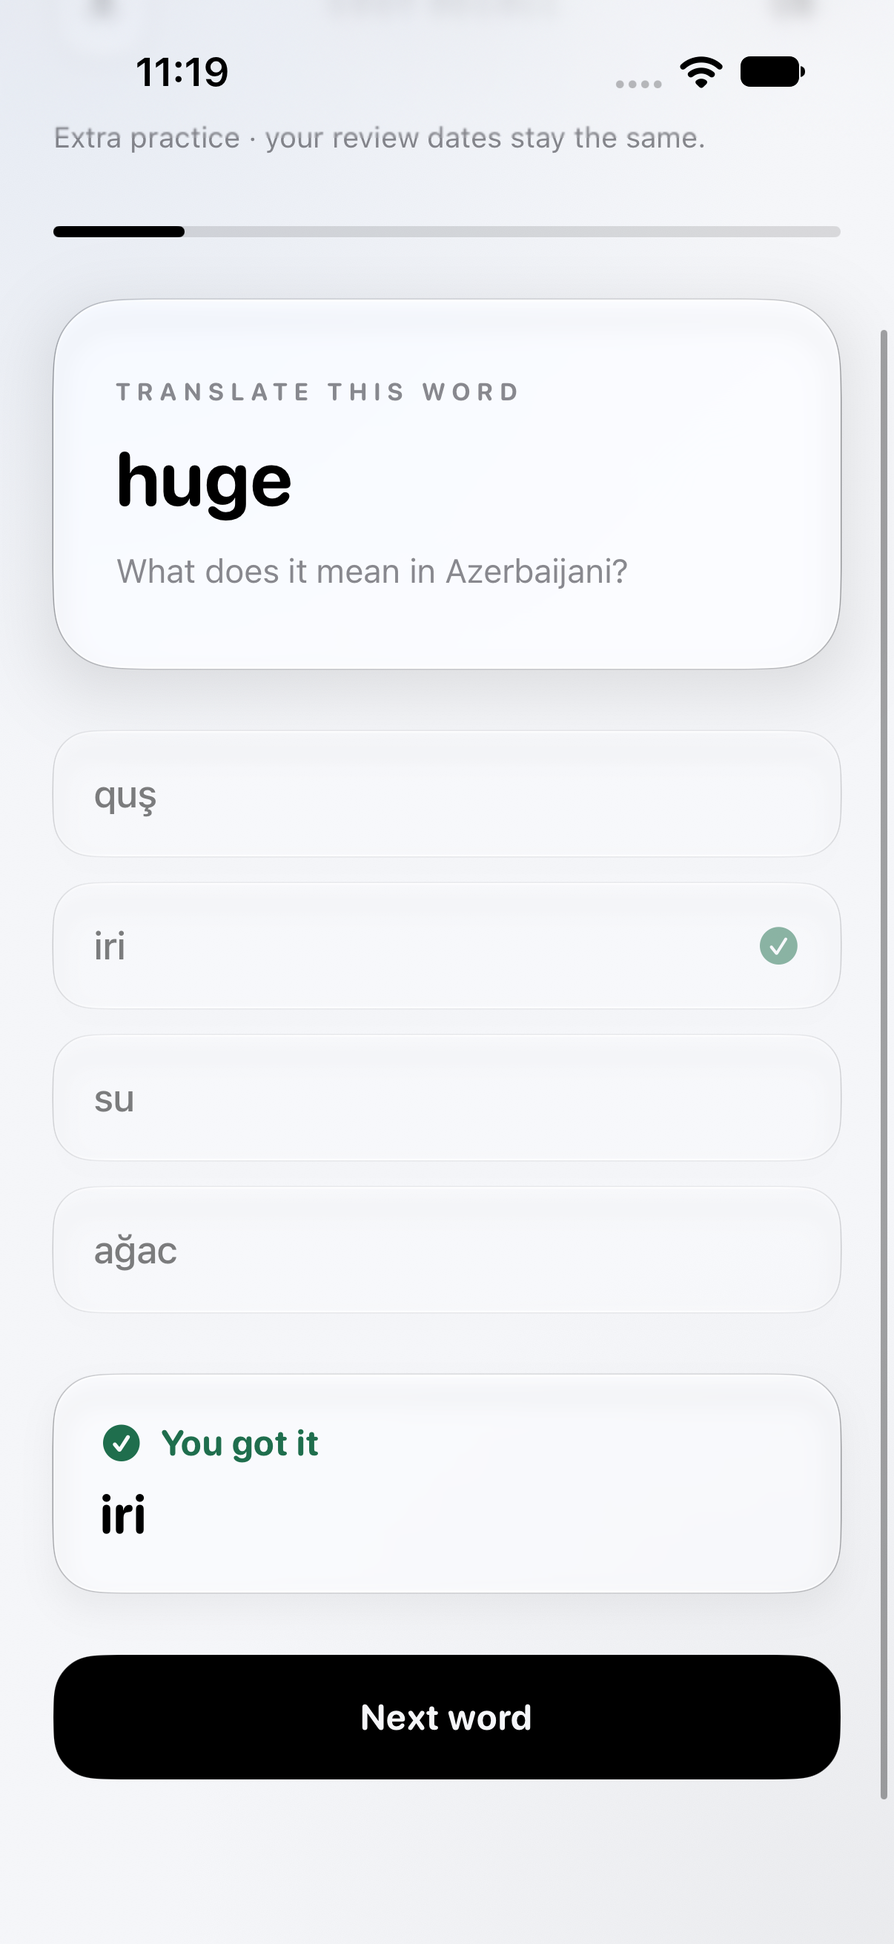
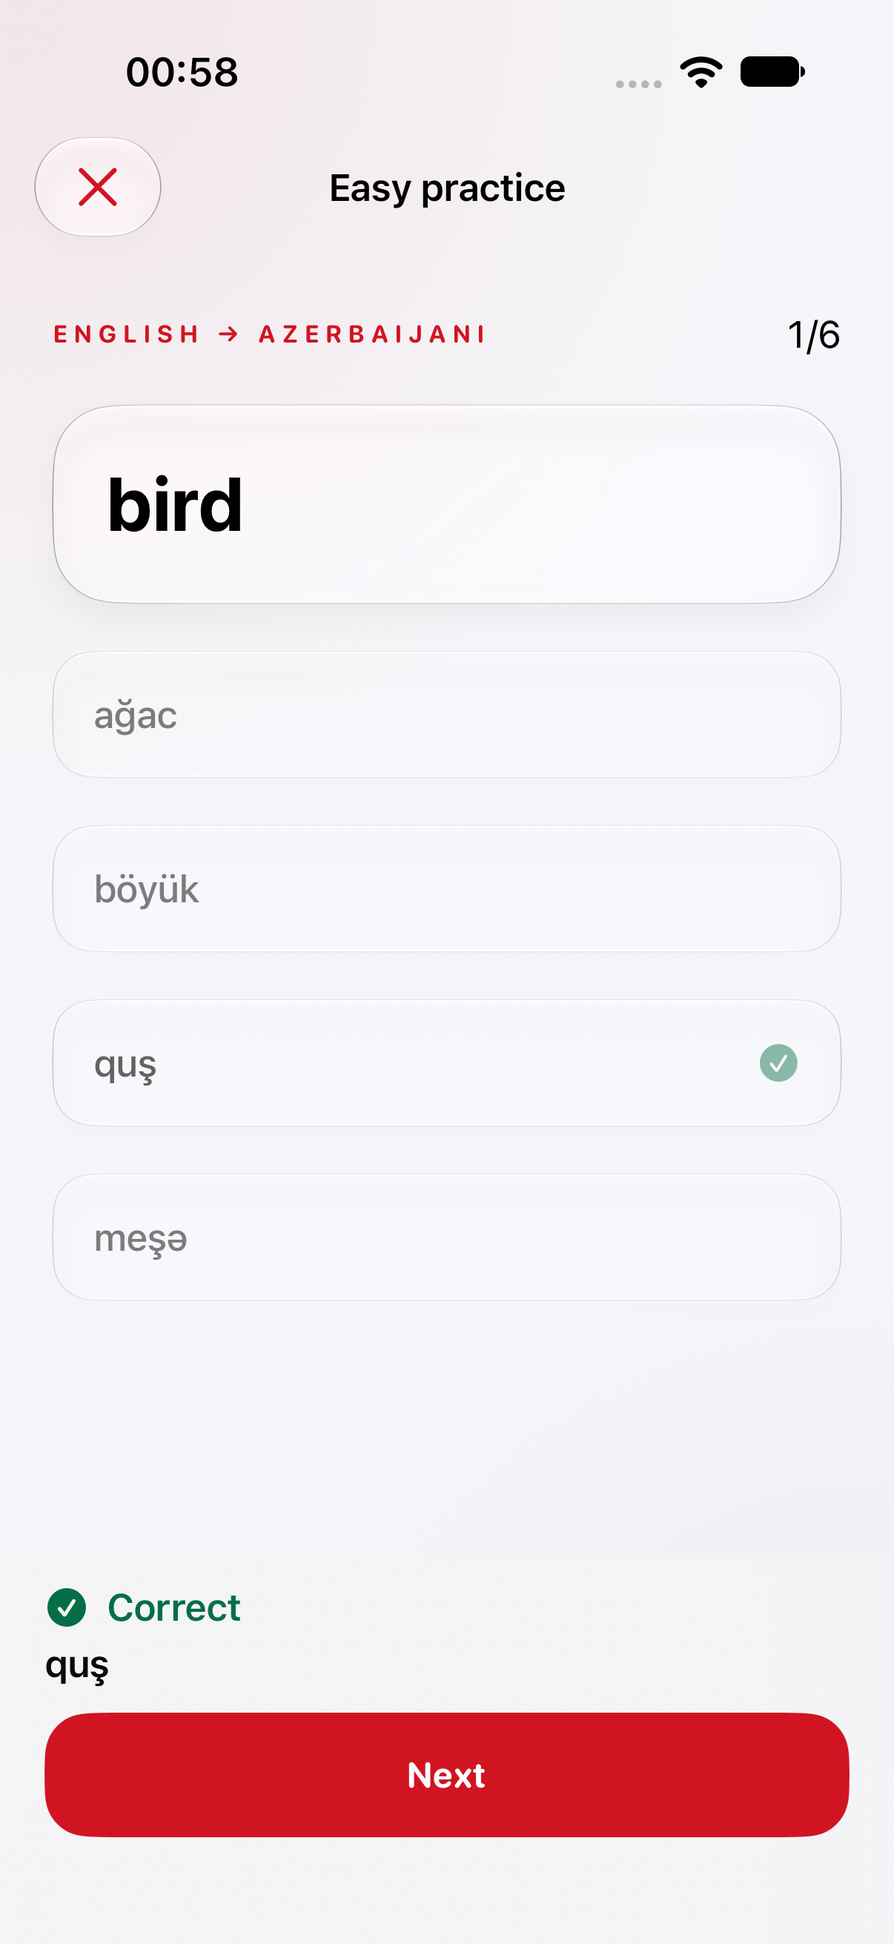
Document WordRevisit 1.3 and refresh three screenshots

diff --git a/WordRevisit/README.md b/WordRevisit/README.md
@@ -1,141 +1,137 @@
 # WordRevisit
 
-A native, offline iPhone app for learning English with Azerbaijani translations. **Version 2.1.0**, iOS **18+**, SwiftUI. Vocabulary and learning history stay on your iPhone. The first installation includes a 59-word starter collection.
+An offline English–Azerbaijani vocabulary app for iPhone and iPad. **Version 1.3.0 · iOS 18+ · SwiftUI.** Add words, practise in shuffled groups, and give every word a turn.
 
 ## Screenshots
 
-Screenshots from an iOS 27 simulator using sample data. The interface follows your iPhone’s appearance, or you can choose Light or Dark in Settings. It uses Liquid Glass on iOS 26+ and native materials on iOS 18–25.
+Screenshots use sample vocabulary in the simulator. The black, white and red interface supports System, Light and Dark appearance, with emerald feedback for correct answers and cherry red for incorrect answers.
 
-| Today's plan | Recall and feedback | Progress |
+| Practice | Answers | Synonyms |
 |:---:|:---:|:---:|
-| ![Daily learning plan](docs/screenshots/today.png) | ![Multiple-choice practice feedback](docs/screenshots/study.png) | ![Learning statistics](docs/screenshots/progress.png) |
+| ![Current practice cycle](docs/screenshots/today.png) | ![Practice answer feedback](docs/screenshots/study.png) | ![Vocabulary grouped by synonym family](docs/screenshots/synonyms.png) |
 
 ## Start here
 
-1. Open **My words** to add or edit words. Each word can have a definition, examples, part of speech, synonym group, memory hook, and your own sentence.
-2. Use **Import CSV** or **Manage words → Paste words**, review the counts, and confirm the import.
-3. Tap **Start today's plan**. Meet new words, recall them after short gaps, then complete their mini-test. Close at any point and use **Continue saved session** later.
-4. Use **Progress** to review saved answers and difficult words.
-5. Export a full JSON backup from **Settings → Backup & restore** before removing the app or changing its bundle identifier.
+1. Open **My words** to add, edit, delete or import vocabulary.
+2. Choose **Easy** or **Hard** on **Practice**, then tap **Start practice**.
+3. Answer and tap **Next** in the fixed bottom panel. In Hard mode, **Check answer** stays above the keyboard.
+4. Finish a group, then continue with **Next group** or return home. There is no daily limit.
+5. Find completed groups and their answers in **Settings → Practice history**.
 
-## Daily learning
+## Every word gets a turn
 
-- The default target is **20 new words**, in **two batches of 10**, alongside due reviews. Choose one, two, or four batches.
-- New words follow collection/import order. Words sharing a synonym group or an Azerbaijani meaning are introduced on different study days.
-- Due reviews prioritise the oldest due date and then the lowest stage. Equal-priority cards are shuffled. Free quizzes also shuffle equal-priority words.
-- At the start of a study day, over 100 due reviews halves the new-word allowance; over 150 pauses it. Paused intake resumes below 100. The daily review limit is 200 distinct words; extra reviews remain due.
-- After at least two missed days, the comeback day has no new words and at most 40 reviews.
-- A study day starts at **04:00 local time**.
-- The daily minimum is **15 distinct words practised**, or the entire available queue when smaller. Mistakes count as practice; repeating one word does not inflate the minimum. Completing all scheduled words finishes the full plan.
-- Each seven consecutive completed study days earns a streak freeze, with up to two saved. A freeze covers a missed day automatically; the best streak remains recorded.
-- The plan's daily limits are fixed for that study day. Changes to those limits apply to the next day; adding or deleting vocabulary updates the remaining available work.
+A cycle starts with all vocabulary in a shared pool. Each group draws up to **20 random words**, without replacement. A remainder of fewer than 20 words forms its own shorter group; it is not padded with repeats.
 
-### New words and review stages
+Missed words return once at the end of their group. The retry finishes each word for that cycle, whether the second answer is right or wrong. Once the last group and its retries are finished, **Cycle complete** appears. Starting again creates a newly shuffled cycle.
 
-An introduction shows the word, translations, definition and examples. Add an optional memory hook, learn the word, mark it already known, or leave it for tomorrow. Already-known words enter stage 5. Learning steps default to **1 minute**, then **10 minutes**, followed by a mini-test. A waiting session is saved and can be closed; reminders can announce its next ready card.
+Easy and Hard share the same pool. Change mode between groups; an unfinished group keeps its original mode. Newly added words join the current pool. Deleted words leave both the pool and any unfinished group. Previously completed history remains available.
 
-| Stage | Review interval |
-|---|---|
-| 1–3 | 1, 2, 4 days |
-| 4–6 | 8, 16, 30 days |
-| 7–9 | 60, 120, 180 days |
+The pool, current question, draft answer, submitted feedback and retry state are saved locally. Close and reopen the app to continue where you left off. Questions in an active group retain the wording they had when the group started; vocabulary edits apply to future groups.
 
-Correct, unassisted, timely recall advances a stage. A correct answer with a hint, a single spelling error in a word of at least five letters, or a longer response is **Hard** and keeps the stage. Default response thresholds are 5 seconds for choices and 12 seconds for typing; these are adjustable.
+### Easy
 
-A wrong answer or **I don't know** drops two stages, with a minimum of stage 1. It returns after 3–5 other cards where enough cards are available, needs two correct recovery answers, and is then due tomorrow. Longer intervals receive a configurable ±10% spread. Very overdue words receive an easier question tier.
+Answer with up to four choices. Each group mixes English → Azerbaijani and Azerbaijani → English questions equally, in random order. For odd-sized groups, one direction has one extra question.
 
-After four mistakes a word is labelled difficult and the feedback offers a memory hook. At most 15 difficult words stay active; excess words pause for seven days. You can also pause or resume any word manually.
+Distractors come from the vocabulary and exclude words sharing any accepted Azerbaijani meaning with the target. If only two or three distinct choices are available, the question uses those choices. If there is only one distinct answer, that word uses written Azerbaijani → English recall so it is still covered by the cycle.
 
-### Questions and synonyms
+### Hard
 
-Early stages use English/Azerbaijani choices; later stages add definitions, cloze sentences, and written recall. Definitions and cloze questions are only used when the necessary content exists. Cloze blanks whole-word occurrences in your example sentence. If four unambiguous options cannot be built, the question uses written recall instead. Distractors exclude words with shared meanings or the same synonym group, and respect part of speech when supplied.
+See the Azerbaijani meaning and write the English word. Matching ignores letter case and extra whitespace; spelling and diacritics must otherwise match exactly.
 
-Assign matching **Synonym group** names to related words. **Practise synonyms** becomes useful when at least two words in a group reach stage 3 and three distinct distractors are available. Select the matching synonym from the answer choices. Synonym practice leaves review dates and daily minimums unchanged.
+Another English word in the vocabulary with a shared Azerbaijani meaning is also accepted. Feedback shows both your valid alternative and the target word. Every answer shows its result and the vocabulary answer before you continue.
 
-Daily questions show examples through **Show sentence hint**, then show examples, definitions and memory hooks after answering. Your own sentence can be saved and shared from the editor.
+## Vocabulary and CSV
 
-**Easy recall** offers four answer choices in either direction: English → Azerbaijani or Azerbaijani → English. **Hard recall** asks you to write the English word from its Azerbaijani translation. Easy practice includes words with four distinct, unambiguous options; add more vocabulary if none are available. Example hints stay visible, results can be reviewed, and missed words can be retried. Free practice does not change daily review stages or dates. Its quiz history is kept separately; resumable sessions apply to the daily plan and synonym practice.
+Each word has three editable fields:
 
-## Manage words and import
+| Field | Required | Example |
+|---|---|---|
+| English | Yes | `large` |
+| Azerbaijani | Yes | `böyük; iri` |
+| Group | No | `size` |
 
-Use **Manage words → Select words**, tap individual rows, or choose **Select visible**, then confirm deletion. **Delete all words** is a separate confirmed action. Deleting words removes their schedules and pending cards, while retaining past answer history. Search includes English, Azerbaijani and group names; filters cover new, learning, review, difficult, paused and synonym entries.
+Use semicolons to separate accepted meanings. Select individual words, **Select visible**, or **Delete all words** from **Manage words** to delete entries after confirmation. Export CSV before deleting vocabulary you might want to keep.
 
-CSV is a UTF-8 plain-text table:
+### Import
+
+CSV files must be UTF-8 with a header containing **English** and **Azerbaijani**. **Group** is optional. Columns are located by header name, so their order may vary; all other columns are ignored.
 
 ```csv
-English,Azerbaijani,Definition,Examples,PartOfSpeech,Group,Mnemonic,MySentence
-large,böyük,Of considerable size.,A large forest.,adjective,size,,
-huge,iri; böyük,Extremely large.,A huge tree.,adjective,size,,
+English,Azerbaijani,Group
+large,böyük; iri,size
+huge,nəhəng; böyük,size
+forest,meşə,nature
 ```
 
-English and Azerbaijani are required. The remaining columns are optional, in the order shown. Old two-, three-, and four-column files still work; empty definitions, quoted commas, escaped quotes and multiline examples are supported. A semicolon separates accepted meanings.
+Import preview shows new words, skipped duplicates and invalid rows before confirmation. An existing English word is always skipped, even if its translation or group differs. The first occurrence within a file is kept; later duplicates are skipped. Duplicate checks ignore case and extra whitespace. An unfinished quoted field stops the import.
 
-The preview reports new entries, merged entries, skipped duplicates and invalid rows. Identical word/meaning pairs are skipped. For the same word with a different translation, choose **merge**, **keep separate**, or **skip**. Merging retains existing review progress. Invalid rows are reported and skipped after confirmation; an unfinished quoted field stops the preview.
+For quick entry, **Manage words → Paste words** accepts one `word - translation` pair per line.
 
-For quick paste, use one pair per line:
+### Export and starter words
 
-```text
-forest - meşə
-water - su
-```
+**Export CSV** writes exactly `English,Azerbaijani,Group`. CSV contains vocabulary only, not practice history or the unfinished group.
 
-CSV carries vocabulary and notes only. **JSON backup** also carries stages, dates, history, settings and the saved session. Restore validates the file before replacing data, asks for confirmation and keeps a local copy of the previous file. Files larger than 64 MB, unsupported schemas and malformed learning data are rejected. An optional backup reminder defaults to every seven days.
+A fresh installation includes **287 unique words** from [Data/Vocabulary.csv](Data/Vocabulary.csv). The supplied file contains 298 rows; its 11 duplicate English entries are skipped, keeping each first occurrence.
 
-## Notifications
+## Synonyms
 
-Daily reminders default to **09:00 and 20:30**. A 22:00 reminder is scheduled only when no study has started; the daily minimum cancels the remaining daily reminders. Quiet hours default to **23:00–07:00**. Tapping a study notification opens or resumes the session. The app refreshes a seven-day notification schedule on use. Notification delivery still follows the iPhone's permission and Focus settings.
+The **Synonyms** tab builds word-family blocks automatically from **Group**. The first word added to each group is its heading; the other words appear underneath with their translations. Words without a group are omitted. Search matches English, Azerbaijani or the group name and shows the whole matching block.
 
-Enable **Xcode renewal** in Settings for a reminder to reinstall through Xcode. Backup and renewal reminders remain active after you complete the daily minimum.
+The layout uses one column on narrow screens and two or three on wider screens. These are your own vocabulary families; the app does not generate or verify synonym relationships.
 
-## Updating
+## Settings and Xcode renewal
 
-Export a JSON backup, then install the update over your existing app using the same bundle identifier. Keep the installed app; deleting it removes its local data.
+Choose **System**, **Light** or **Dark**. The header logo follows that appearance. **Practice history** records first-attempt scores and the separate one-time retries; older 1.2 sessions retain the history detail originally saved.
 
-Version 2.1 reads existing 2.0 data and JSON backups, including words, review dates, history, settings and saved study sessions. It also supports the earlier 1.2 data format. The first upgrade keeps a local recovery copy of the previous data file. Older backups use System appearance by default; new backups include your chosen appearance. Backups created by 2.1 require 2.1 or a later compatible version to restore.
+Enable **Xcode renewal** for a local reminder six days after enabling it or tapping **I reinstalled from Xcode**. Tap that button after each successful reinstall. The reminder estimates when a free install may expire; it does not inspect the provisioning profile or renew the app. Delivery follows notification permission and the iPhone's Focus settings.
 
-### Appearance
+## Release and data compatibility
 
-Choose **System**, **Light** or **Dark** in **Settings → Appearance**. The home logo follows the selected theme. Blue marks actions and selections, green marks correct answers, and red marks mistakes and destructive actions. Feedback also uses text and icons.
+**1.3 replaces the 2.x workflow following issues with practice navigation and the expanded learning flow.** The 2.x daily plan, review stages, streaks, statistics, advanced word fields, dedicated synonym quiz, quiet hours and JSON backup interface are retired. System/Light/Dark, the adaptive logo, Xcode renewal and practice history remain.
+
+This version reads the original **1.2 local data format** and preserves its vocabulary and practice history. It keeps a local copy of the old file before converting it. Word definitions, examples and other removed fields are not part of the new vocabulary model.
+
+**2.0 and 2.1 data are not migrated.** Before switching from either version, use that version to export the vocabulary you need as CSV. You may also keep its full backup for use with that older version. Version 1.3 does not import JSON backups.
+
+If 1.3 finds a 2.x or unreadable file, it leaves the file untouched and displays a recovery screen. **Start with the new vocabulary** requires confirmation, preserves that old file separately on the device, and starts with the bundled vocabulary and empty practice history. You can then import CSV; existing English entries are skipped. To replace the bundled vocabulary entirely, delete it first through **My words**, then import your CSV.
+
+Keep the same bundle identifier when installing an update over an existing app. Deleting the app removes its local files, including any local recovery copies. Keep exported CSV outside the app before removing it. CSV does not preserve history or practice state.
 
 ## Run on an iPhone without the App Store
 
-Requirements: a Mac with Xcode 26 or later, an iPhone running iOS 18 or later, a cable, and a free Apple Account.
+Requirements: a Mac with Xcode 26 or later, an iPhone running iOS 18 or later, and an Apple Account.
 
 1. Open `WordRevisit.xcodeproj` in Xcode.
-2. In **Xcode → Settings → Accounts**, sign in with your Apple Account.
-3. Select the **WordRevisit** target. Under **Signing & Capabilities**, enable **Automatically manage signing**, choose your **Personal Team**, and change the bundle identifier if Xcode asks for a unique one.
-4. Connect and unlock your iPhone, select **Trust This Computer** if prompted, and enable **Settings → Privacy & Security → Developer Mode** on the phone if needed.
-5. Choose your named iPhone as the Xcode run destination (not **Any iOS Device**) and press **Run** (`⌘R`). Xcode registers the phone and creates its development provisioning profile.
-6. If iOS blocks the installed app, open **Settings → General → VPN & Device Management**, select your developer account, and trust its certificate. Follow any restart prompt, then open WordRevisit again.
+2. Sign in under **Xcode → Settings → Accounts**.
+3. Select the **WordRevisit** target. Under **Signing & Capabilities**, enable **Automatically manage signing** and choose your **Personal Team**. Use a unique bundle identifier for your first installation, then keep that identifier for updates.
+4. Connect and unlock the iPhone, trust the computer, and enable **Settings → Privacy & Security → Developer Mode** when prompted.
+5. Select your named iPhone as the run destination and press **Run** (`⌘R`).
+6. If iOS blocks the developer certificate, trust your account under **Settings → General → VPN & Device Management**, following any restart prompt.
 
-If Xcode says **“Your team has no devices from which to generate a provisioning profile”**, check that the iPhone appears under **Window → Devices and Simulators**, is unlocked and trusted, and is selected as the run destination. Keep **Automatically manage signing** enabled and select your own Personal Team. If Xcode reports a bundle ID conflict, choose a unique bundle identifier for your copy.
+For **“Your team has no devices from which to generate a provisioning profile”**, check that your unlocked, trusted phone appears in **Window → Devices and Simulators** and is selected as the run destination. Check your Personal Team and automatic signing settings.
 
-The free Personal Team profile expires after **7 days**. Run the project from Xcode again to renew it. Export your words before removing the app or changing its bundle identifier. See [Apple's device-run guide](https://developer.apple.com/documentation/xcode/running-your-app-on-simulated-or-physical-devices) and [free-account limits](https://developer.apple.com/help/account/basics/about-your-developer-account).
+A free Personal Team install normally expires after seven days. Run from Xcode again to renew it. See [Apple's device-run guide](https://developer.apple.com/documentation/xcode/running-your-app-on-simulated-or-physical-devices) and [free-account limits](https://developer.apple.com/help/account/basics/about-your-developer-account).
 
-For a heads-up, turn on **Xcode renewal** in Settings. The app sends one local notification six days after the date you enable it or tap **I reinstalled from Xcode**. Tap that button after each successful reinstall. The reminder is an estimate because the app does not inspect your provisioning profile; it cannot renew the install for you.
-
-## Code map and checks
+## Code and checks
 
 ```text
 Sources/
-├── Models/      Codable words, learning settings, days, sessions and review logs
-├── Services/    Learning engine, calendar rules, import preview, CSV and reminders
-├── Data/        Atomic persistence, migration, backup and session transactions
-└── Views/       SwiftUI screens and shared visual components
+├── Models/      Vocabulary, practice pool, sessions and answer history
+├── Services/    Question generation, CSV preview and Xcode renewal reminders
+├── Data/        Atomic persistence and version compatibility
+└── Views/       Practice, vocabulary, synonym families and settings
 ```
 
-There are no third-party dependencies. Run these commands from `WordRevisit/` on a Mac with Xcode selected:
+There are no third-party dependencies. From `WordRevisit/`, with Xcode selected:
 
 ```bash
 swiftc Sources/Models/*.swift Sources/Services/*.swift Tests/LogicChecks.swift -o /tmp/WordRevisitLogicChecks
 /tmp/WordRevisitLogicChecks
 swiftc Sources/Models/*.swift Sources/Services/*.swift Sources/Data/WordRepository.swift Tests/RepositoryChecks.swift -o /tmp/WordRevisitRepositoryChecks
 /tmp/WordRevisitRepositoryChecks
-swiftc Sources/Models/*.swift Sources/Services/*.swift Sources/Data/WordRepository.swift Tests/LearningChecks.swift -o /tmp/WordRevisitLearningChecks
-/tmp/WordRevisitLearningChecks
 ```
 
-Choose an iPhone simulator and **Product → Test** (`⌘U`) to run UI checks for word management, saved sessions, quizzes and synonym practice. Tests use an isolated temporary store. The command-line checks cover imports, migration, learning schedules, answer grading, streaks, notifications and backup restoration. A fixture generated by version 2.0 checks that seven study days, a saved session and existing settings survive both an update and a JSON restore.
+These check full-cycle coverage, short final groups, one-time retries, adding/deleting words, exact and alternative answers, CSV duplicate handling, saved sessions, 1.2 conversion and rejection of 2.x files without changing them. Select a simulator and use **Product → Test** (`⌘U`) for the interface checks, including reaching **Next** without scrolling. UI tests use an isolated temporary vocabulary.
 
 ## License
 

diff --git a/README.md b/README.md
@@ -17,12 +17,12 @@ Three independent applications in one repository: two ASP.NET Core web apps and 
 
 ### WordRevisit
 
-WordRevisit **2.1.0** includes a daily learning plan, resumable sessions, staged reviews, synonym practice, bulk word management, and full backups. Vocabulary and learning history stay on the iPhone.
+WordRevisit **1.3.0** offers unlimited practice in shuffled groups, automatic synonym-family blocks, CSV vocabulary import/export and saved practice history. Each word gets a turn before a new cycle starts. Vocabulary stays on the device.
 
 <p align="center">
-  <img src="WordRevisit/docs/screenshots/today.png" alt="WordRevisit daily plan" width="205">
+  <img src="WordRevisit/docs/screenshots/today.png" alt="WordRevisit practice cycle" width="205">
   <img src="WordRevisit/docs/screenshots/study.png" alt="WordRevisit recall and feedback" width="205">
-  <img src="WordRevisit/docs/screenshots/progress.png" alt="WordRevisit learning progress" width="205">
+  <img src="WordRevisit/docs/screenshots/synonyms.png" alt="WordRevisit synonym families" width="205">
 </p>
 
 <p align="center"><a href="WordRevisit/README.md">Features and iPhone setup →</a></p>
